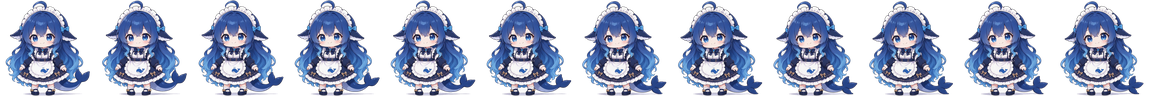
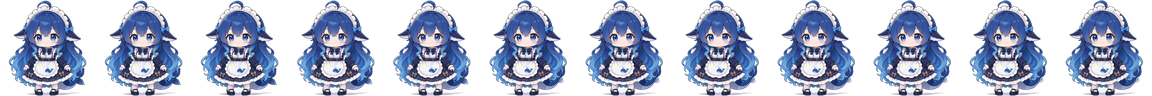
v1.9: forward-only looping via automatic loop-window search
Ping-pong replayed motion backwards which read badly on the idle clip.
make-sheets.py now scans every frame (downscaled grayscale), finds the
window of 12-30 frames whose first/last frames differ least, and packs
12 sprites from inside that window - forward playback is seamless by
construction (seam diff 0.7-7.9/255 across all six clips). C# plays
frames 0..11 straight. exe shrinks to 676KB (loop frames compress better).

diff --git a/tools/make-sheets.py b/tools/make-sheets.py
@@ -1,7 +1,8 @@
 # -*- coding: utf-8 -*-
-# 从 6 条 MP4 生成动画精灵图：抽 12 帧 → 洪泛抠白底 → 联合包围盒对齐 → 96px → 横向拼接
-# 输出: anim-df-{normal,worry,daze}.png / anim-zc-{normal,worry,daze}.png（每张 12 帧）
-import os
+# 精灵图流水线 v2：自动寻找无缝循环窗口（正向播放，不用倒放）
+#   1) 全帧降采样算帧差，搜索首尾差异最小的 (起点, K=12帧) 窗口
+#   2) 只在窗口内抽 12 帧 -> 洪泛抠白底 -> 联合包围盒 -> 96px 横向拼接
+import os, sys
 import imageio
 import numpy as np
 from PIL import Image
@@ -9,6 +10,7 @@ from collections import deque
 
 D = r"C:\Users\sober\Downloads"
 OUT = os.path.dirname(os.path.abspath(__file__)).replace("\\tools", "")
+SIZE, FRAMES = 96, 12
 JOBS = [
     ("大肥鱼-标准.mp4", "anim-df-normal.png"),
     ("大肥鱼-紧张.mp4", "anim-df-worry.png"),
@@ -17,53 +19,65 @@ JOBS = [
     ("GLM-新慌张.mp4", "anim-zc-worry.png"),
     ("GLM-呆滞.mp4", "anim-zc-daze.png"),
 ]
-SIZE = 96
-FRAMES = 12
 
 def key_white(img):
-    """洪泛抠白底：从四边出发，把连通的近白像素置透明（角色深色描边会挡住填充）"""
     h, w = img.shape[:2]
     alpha = np.full((h, w), 255, dtype=np.uint8)
-    mn = img.min(axis=2)
-    mx = img.max(axis=2)
+    mn = img.min(axis=2); mx = img.max(axis=2)
     bg = (mn > 224) & ((mx - mn) < 30)
     q = deque()
     for x in range(w):
         for y in (0, h - 1):
-            if bg[y, x] and alpha[y, x]:
-                alpha[y, x] = 0; q.append((y, x))
+            if bg[y, x] and alpha[y, x]: alpha[y, x] = 0; q.append((y, x))
     for y in range(h):
         for x in (0, w - 1):
-            if bg[y, x] and alpha[y, x]:
-                alpha[y, x] = 0; q.append((y, x))
+            if bg[y, x] and alpha[y, x]: alpha[y, x] = 0; q.append((y, x))
     while q:
         y, x = q.popleft()
-        for ny, nx in ((y+1,x),(y-1,x),(y,x+1),(y,x-1)):
+        for ny, nx in ((y + 1, x), (y - 1, x), (y, x + 1), (y, x - 1)):
             if 0 <= ny < h and 0 <= nx < w and alpha[ny, nx] and bg[ny, nx]:
                 alpha[ny, nx] = 0; q.append((ny, nx))
-    out = np.dstack([img, alpha])
-    return out
+    return np.dstack([img, alpha])
 
 def bbox_of(rgba):
-    a = rgba[:, :, 3]
-    ys, xs = np.where(a > 0)
-    if len(xs) == 0:
-        return None
+    ys, xs = np.where(rgba[:, :, 3] > 0)
+    if len(xs) == 0: return None
     return xs.min(), ys.min(), xs.max(), ys.max()
 
-def process(mp4, out_name):
+def find_loop(mp4):
+    """全帧降采样灰度化，找首尾差异最小的 K 帧窗口"""
     r = imageio.get_reader(os.path.join(D, mp4))
-    n = r.count_frames()
-    # 跳过 AI 视频开头的「表情渐变进入」段：从 35%~95% 区间取帧，表情全程成形
-    lo, hi = int((n - 1) * 0.35), int((n - 1) * 0.95)
-    idxs = [round(lo + i * (hi - lo) / (FRAMES - 1)) for i in range(FRAMES)]
-    frames = []
-    for i in idxs:
-        f = r.get_data(i)
-        rgba = key_white(f)
-        frames.append(rgba)
+    grays = []
+    for f in r:
+        g = Image.fromarray(f).convert("L").resize((160, 160), Image.BILINEAR)
+        grays.append(np.asarray(g, dtype=np.float32))
     r.close()
-    # 联合包围盒：所有帧取并集，保证裁剪框稳定不抖
+    n = len(grays)
+    G = np.stack(grays)
+    best = (1e9, 0, 12)
+    for K in range(12, 31):                      # 0.5~1.25 秒 @24fps
+        d = np.abs(G[0:n - K] - G[K:n]).mean(axis=(1, 2))
+        s = int(d.argmin())
+        if d[s] < best[0]:
+            best = (float(d[s]), s, K)
+    _, s, K = best
+    idxs = [round(s + i * (K - 1) / (FRAMES - 1)) for i in range(FRAMES)]
+    seam = float(np.abs(G[idxs[0]] - G[idxs[-1]]).mean())
+    print("  loop: start=%d K=%d 帧间差=%.2f 接缝差=%.2f (n=%d)" % (s, K, best[0], seam, n))
+    return idxs, seam
+
+def process(mp4, out_name):
+    print(out_name)
+    idxs, seam = find_loop(mp4)
+    want = set(idxs)
+    frames = []
+    r = imageio.get_reader(os.path.join(D, mp4))
+    for i, f in enumerate(r):
+        if i in want:
+            frames.append(key_white(np.asarray(f)))
+            if len(frames) == len(idxs): break
+    r.close()
+    assert len(frames) == len(idxs), "抽帧数量不足"
     u = [10**9, 10**9, -1, -1]
     for f in frames:
         b = bbox_of(f)
@@ -71,23 +85,25 @@ def process(mp4, out_name):
         u[0] = min(u[0], b[0]); u[1] = min(u[1], b[1])
         u[2] = max(u[2], b[2]); u[3] = max(u[3], b[3])
     pad = 4
-    u = [max(0, u[0]-pad), max(0, u[1]-pad), min(f.shape[1]-1, u[2]+pad), min(f.shape[0]-1, u[3]+pad)]
-    cw, ch = u[2]-u[0]+1, u[3]-u[1]+1
+    u = [max(0, u[0] - pad), max(0, u[1] - pad), min(f.shape[1] - 1, u[2] + pad), min(f.shape[0] - 1, u[3] + pad)]
+    cw, ch = u[2] - u[0] + 1, u[3] - u[1] + 1
     side = max(cw, ch)
     tiles = []
     for f in frames:
-        crop = f[u[1]:u[3]+1, u[0]:u[2]+1]
+        crop = f[u[1]:u[3] + 1, u[0]:u[2] + 1]
         canvas = np.zeros((side, side, 4), dtype=np.uint8)
-        oy, ox = (side-ch)//2, (side-cw)//2
-        canvas[oy:oy+ch, ox:ox+cw] = crop
-        pil = Image.fromarray(canvas).resize((SIZE, SIZE), Image.LANCZOS)
-        tiles.append(pil)
-    sheet = Image.new("RGBA", (SIZE*len(tiles), SIZE), (0, 0, 0, 0))
-    for i, t in enumerate(tiles):
-        sheet.paste(t, (i*SIZE, 0))
+        oy, ox = (side - ch) // 2, (side - cw) // 2
+        canvas[oy:oy + ch, ox:ox + cw] = crop
+        tiles.append(Image.fromarray(canvas).resize((SIZE, SIZE), Image.LANCZOS))
+    sheet = Image.new("RGBA", (SIZE * len(tiles), SIZE), (0, 0, 0, 0))
+    for i, t in enumerate(tiles): sheet.paste(t, (i * SIZE, 0))
     sheet.save(os.path.join(OUT, out_name))
-    print(out_name, "frames=%d union=%dx%d sheet=%s" % (len(tiles), cw, ch, sheet.size))
+    print("  -> %s (%dx%d)" % (out_name, cw, ch))
+    return seam
 
+seams = {}
 for mp4, out in JOBS:
-    process(mp4, out)
-print("all done")
+    seams[out] = process(mp4, out)
+print("接缝差汇总（越小越无缝）:")
+for k, v in seams.items():
+    print("  %-24s %.2f" % (k, v))

diff --git a/hdr-toggle.cs b/hdr-toggle.cs
@@ -1370,11 +1370,10 @@ namespace HDRToggle
 
         private static int[] BuildSeq()
         {
-            // 乒乓序列 0..11,10..1：AI 视频首尾接不上也能无缝循环
-            List<int> l = new List<int>();
-            for (int i = 0; i < 12; i++) l.Add(i);
-            for (int i = 10; i >= 1; i--) l.Add(i);
-            return l.ToArray();
+            // 纯正向播放：精灵图流水线已按「首尾最接近」挑循环窗口，无需倒放
+            int[] a = new int[12];
+            for (int i = 0; i < 12; i++) a[i] = i;
+            return a;
         }
         private Grid _dsDrawer, _zcDrawer;
         private StackPanel _dsDrawerContent, _zcDrawerContent;
